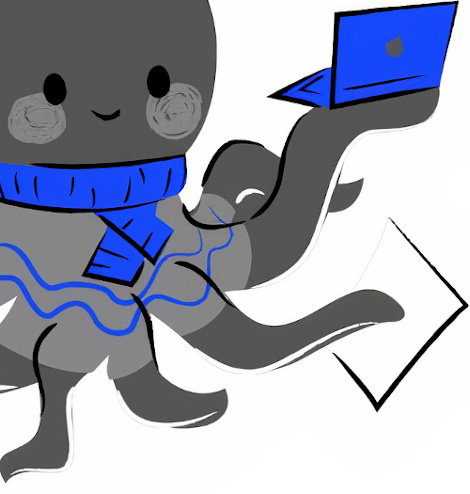
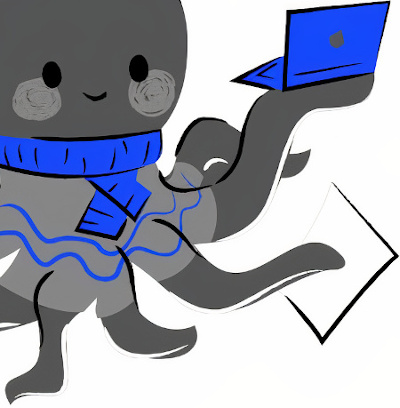
a

diff --git a/core/static/css/welcome.css b/core/static/css/welcome.css
@@ -10,7 +10,7 @@
 }
 
 #img-logo {
-    background-image: url('/static/images/octopus_auto_x2.jpg');
+    background-image: url('/static/images/octopus_grande.jpg');
     background-repeat: no-repeat;
 }
 
@@ -46,7 +46,7 @@ button.get-started {
 }
 
 
-/* Responsivo */
+/* Responsivo 1240px */
 
 @media(max-width: 1240px) {
     #main {
@@ -55,7 +55,7 @@ button.get-started {
     }
 
     #img-logo {
-        height: 500px;
+        height: 600px;
         width: 100%;
         background-image: url('/static/images/octopus_medio.jpg');
         background-position: top left;
@@ -64,5 +64,19 @@ button.get-started {
     #content {
         width: 100%;
         height: max-content;
+    }
+}
+
+
+/* Responsivo 475px */
+
+@media(max-width: 475px) {
+    #main {
+        gap: 2em;
+    }
+
+    #img-logo {
+        height: 290px;
+        background-image: url('/static/images/octopus_pequeno.jpg');
     }
 }
